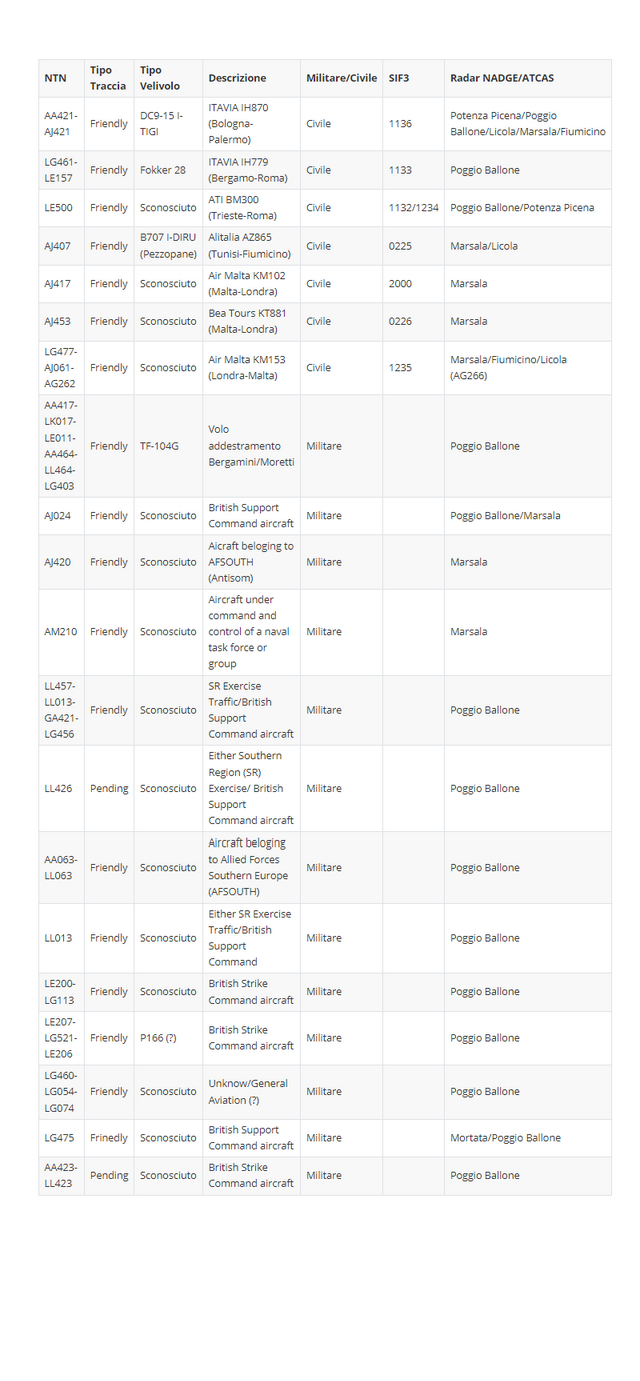
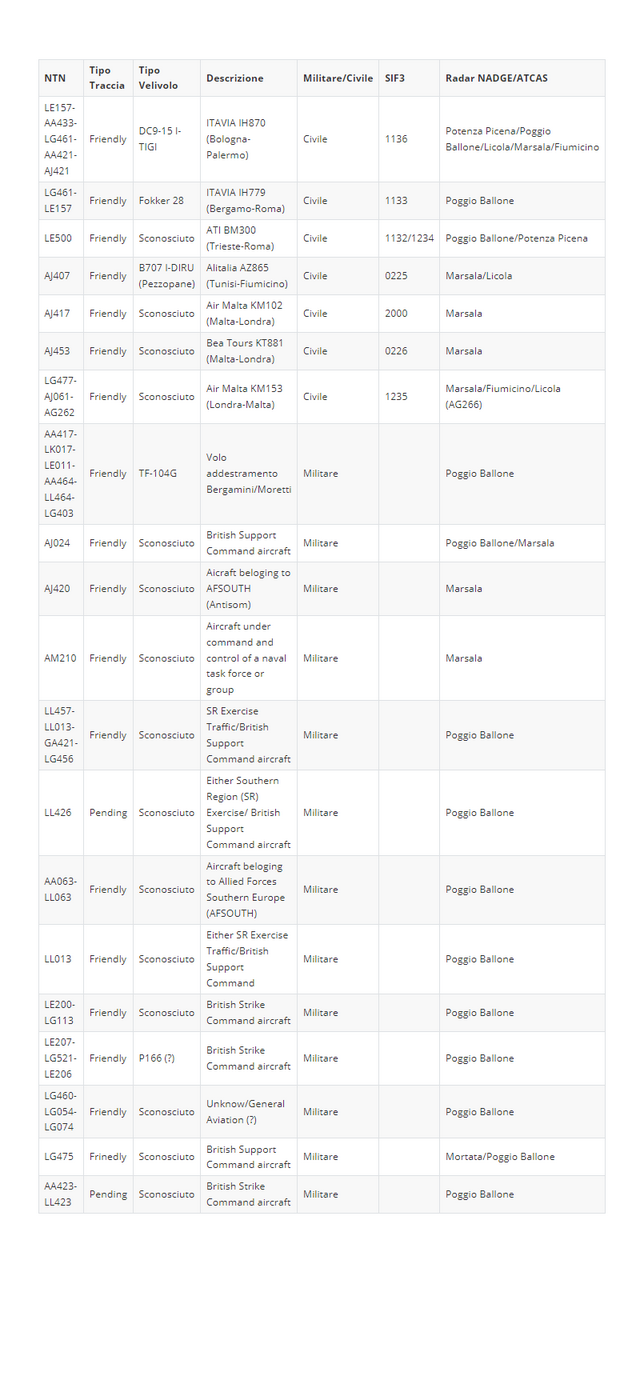
Update table NTN

diff --git a/doc/README.tex b/doc/README.tex
@@ -1,0 +1,116 @@
+% Options for packages loaded elsewhere
+\PassOptionsToPackage{unicode}{hyperref}
+\PassOptionsToPackage{hyphens}{url}
+%
+\documentclass[
+]{article}
+\author{}
+\date{}
+
+\usepackage{amsmath,amssymb}
+\usepackage{lmodern}
+\usepackage{iftex}
+\ifPDFTeX
+  \usepackage[T1]{fontenc}
+  \usepackage[utf8]{inputenc}
+  \usepackage{textcomp} % provide euro and other symbols
+\else % if luatex or xetex
+  \usepackage{unicode-math}
+  \defaultfontfeatures{Scale=MatchLowercase}
+  \defaultfontfeatures[\rmfamily]{Ligatures=TeX,Scale=1}
+\fi
+% Use upquote if available, for straight quotes in verbatim environments
+\IfFileExists{upquote.sty}{\usepackage{upquote}}{}
+\IfFileExists{microtype.sty}{% use microtype if available
+  \usepackage[]{microtype}
+  \UseMicrotypeSet[protrusion]{basicmath} % disable protrusion for tt fonts
+}{}
+\makeatletter
+\@ifundefined{KOMAClassName}{% if non-KOMA class
+  \IfFileExists{parskip.sty}{%
+    \usepackage{parskip}
+  }{% else
+    \setlength{\parindent}{0pt}
+    \setlength{\parskip}{6pt plus 2pt minus 1pt}}
+}{% if KOMA class
+  \KOMAoptions{parskip=half}}
+\makeatother
+\usepackage{xcolor}
+\IfFileExists{xurl.sty}{\usepackage{xurl}}{} % add URL line breaks if available
+\IfFileExists{bookmark.sty}{\usepackage{bookmark}}{\usepackage{hyperref}}
+\hypersetup{
+  hidelinks,
+  pdfcreator={LaTeX via pandoc}}
+\urlstyle{same} % disable monospaced font for URLs
+\usepackage{longtable,booktabs,array}
+\usepackage{calc} % for calculating minipage widths
+% Correct order of tables after \paragraph or \subparagraph
+\usepackage{etoolbox}
+\makeatletter
+\patchcmd\longtable{\par}{\if@noskipsec\mbox{}\fi\par}{}{}
+\makeatother
+% Allow footnotes in longtable head/foot
+\IfFileExists{footnotehyper.sty}{\usepackage{footnotehyper}}{\usepackage{footnote}}
+\makesavenoteenv{longtable}
+\setlength{\emergencystretch}{3em} % prevent overfull lines
+\providecommand{\tightlist}{%
+  \setlength{\itemsep}{0pt}\setlength{\parskip}{0pt}}
+\setcounter{secnumdepth}{-\maxdimen} % remove section numbering
+\ifLuaTeX
+  \usepackage{selnolig}  % disable illegal ligatures
+\fi
+
+\begin{document}
+
+\begin{longtable}[]{@{}lllllll@{}}
+\toprule
+NTN & Tipo Traccia & Tipo Velivolo & Descrizione & Militare/Civile &
+SIF3 & Radar NADGE/ATCAS \\
+\midrule
+\endhead
+LE157-AA433-LG461-AA421-AJ421 & Friendly & DC9-15 I-TIGI & ITAVIA IH870
+(Bologna-Palermo) & Civile & 1136 & Potenza Picena/Poggio
+Ballone/Licola/Marsala/Fiumicino \\
+LG461-LE157 & Friendly & Fokker 28 & ITAVIA IH779 (Bergamo-Roma) &
+Civile & 1133 & Poggio Ballone \\
+LE500 & Friendly & Sconosciuto & ATI BM300 (Trieste-Roma) & Civile &
+1132/1234 & Poggio Ballone/Potenza Picena \\
+AJ407 & Friendly & B707 I-DIRU (Pezzopane) & Alitalia AZ865
+(Tunisi-Fiumicino) & Civile & 0225 & Marsala/Licola \\
+AJ417 & Friendly & Sconosciuto & Air Malta KM102 (Malta-Londra) & Civile
+& 2000 & Marsala \\
+AJ453 & Friendly & Sconosciuto & Bea Tours KT881 (Malta-Londra) & Civile
+& 0226 & Marsala \\
+LG477-AJ061-AG262 & Friendly & Sconosciuto & Air Malta KM153
+(Londra-Malta) & Civile & 1235 & Marsala/Fiumicino/Licola (AG266) \\
+AA417-LK017-LE011-AA464-LL464-LG403 & Friendly & TF-104G & Volo
+addestramento Bergamini/Moretti & Militare & & Poggio Ballone \\
+AJ024 & Friendly & Sconosciuto & British Support Command aircraft &
+Militare & & Poggio Ballone/Marsala \\
+AJ420 & Friendly & Sconosciuto & Aicraft beloging to AFSOUTH (Antisom) &
+Militare & & Marsala \\
+AM210 & Friendly & Sconosciuto & Aircraft under command and control of a
+naval task force or group & Militare & & Marsala \\
+LL457-LL013-GA421-LG456 & Friendly & Sconosciuto & SR Exercise
+Traffic/British Support Command aircraft & Militare & & Poggio
+Ballone \\
+LL426 & Pending & Sconosciuto & Either Southern Region (SR) Exercise/
+British Support Command aircraft & Militare & & Poggio Ballone \\
+AA063-LL063 & Friendly & Sconosciuto & Aircraft beloging to Allied
+Forces Southern Europe (AFSOUTH) & Militare & & Poggio Ballone \\
+LL013 & Friendly & Sconosciuto & Either SR Exercise Traffic/British
+Support Command & Militare & & Poggio Ballone \\
+LE200-LG113 & Friendly & Sconosciuto & British Strike Command aircraft &
+Militare & & Poggio Ballone \\
+LE207-LG521-LE206 & Friendly & P166 (?) & British Strike Command
+aircraft & Militare & & Poggio Ballone \\
+LG460-LG054-LG074 & Friendly & Sconosciuto & Unknow/General Aviation (?)
+& Militare & & Poggio Ballone \\
+LG475 & Frinedly & Sconosciuto & British Support Command aircraft &
+Militare & & Mortata/Poggio Ballone \\
+AA423-LL423 & Pending & Sconosciuto & British Strike Command aircraft &
+Militare & & Poggio Ballone \\
+\bottomrule
+\end{longtable}
+
+\end{document}

diff --git a/doc/README.md b/doc/README.md
@@ -1,6 +1,6 @@
 | NTN                                 | Tipo Traccia | Tipo Velivolo           | Descrizione                                                  | Militare/Civile | SIF3      | Radar NADGE/ATCAS                                      |
 | ----------------------------------- | ------------ | ----------------------- | ------------------------------------------------------------ | --------------- | --------- | ------------------------------------------------------ |
-| AA421-AJ421                         | Friendly     | DC9-15 I-TIGI           | ITAVIA IH870 (Bologna-Palermo)                               | Civile          | 1136      | Potenza Picena/Poggio Ballone/Licola/Marsala/Fiumicino |
+| LE157-AA433-LG461-AA421-AJ421       | Friendly     | DC9-15 I-TIGI           | ITAVIA IH870 (Bologna-Palermo)                               | Civile          | 1136      | Potenza Picena/Poggio Ballone/Licola/Marsala/Fiumicino |
 | LG461-LE157                         | Friendly     | Fokker 28               | ITAVIA IH779 (Bergamo-Roma)                                  | Civile          | 1133      | Poggio Ballone                                         |
 | LE500                               | Friendly     | Sconosciuto             | ATI BM300 (Trieste-Roma)                                     | Civile          | 1132/1234 | Poggio Ballone/Potenza Picena                          |
 | AJ407                               | Friendly     | B707 I-DIRU (Pezzopane) | Alitalia AZ865 (Tunisi-Fiumicino)                            | Civile          | 0225      | Marsala/Licola                                         |
